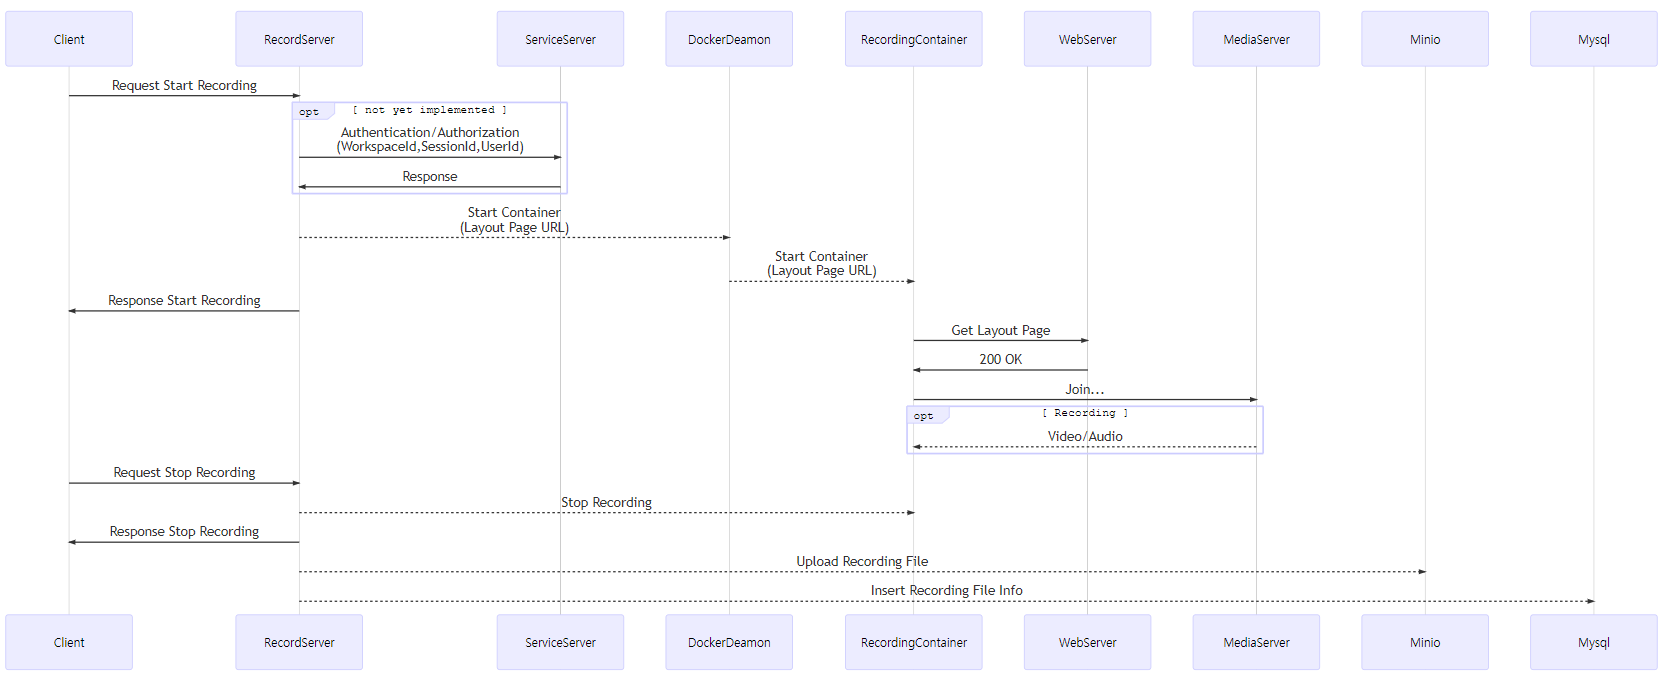
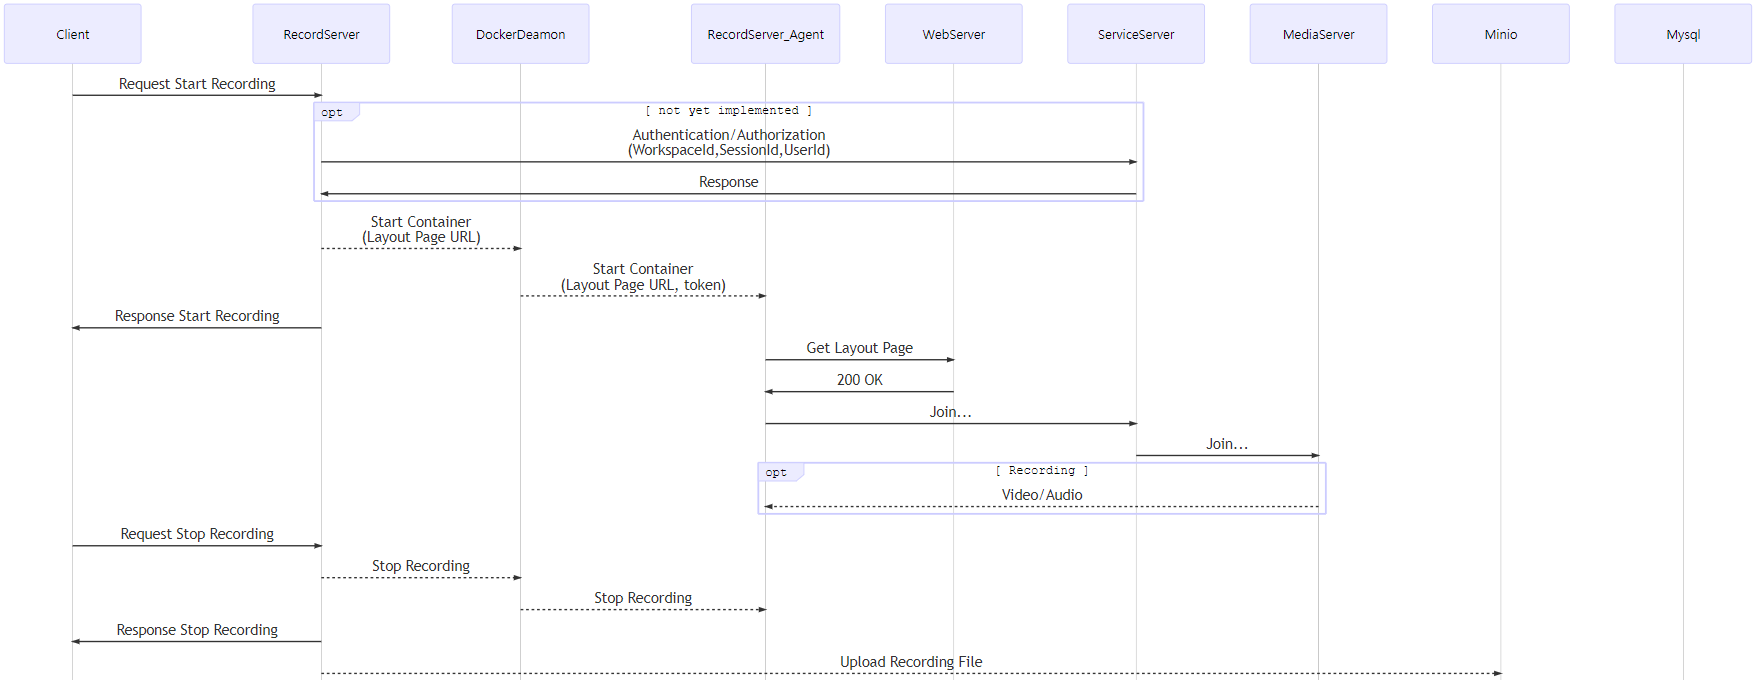
chore: update base flow image

diff --git a/sequence.md b/sequence.md
@@ -2,10 +2,10 @@
 sequenceDiagram
     participant Client
     participant RecordServer
-    participant ServiceServer
     participant DockerDeamon
-    participant RecordingContainer
+    participant RecordServer_Agent
     participant WebServer
+    participant ServiceServer
     participant MediaServer
     participant Minio
     participant Mysql
@@ -15,16 +15,18 @@ sequenceDiagram
         ServiceServer->>RecordServer: Response
     end
     RecordServer-->>DockerDeamon: Start Container<br>(Layout Page URL)
-    DockerDeamon-->>RecordingContainer: Start Container<br>(Layout Page URL)
+    DockerDeamon-->>RecordServer_Agent: Start Container<br>(Layout Page URL, token)
     RecordServer->>Client: Response Start Recording
-    RecordingContainer->>WebServer: Get Layout Page
-    WebServer->>RecordingContainer: 200 OK
-    RecordingContainer->>MediaServer: Join...
+    RecordServer_Agent->>WebServer: Get Layout Page
+    WebServer->>RecordServer_Agent: 200 OK
+    RecordServer_Agent->>ServiceServer: Join...
+    ServiceServer->>MediaServer: Join...
     opt Recording
-        MediaServer-->>RecordingContainer: Video/Audio
+        MediaServer-->>RecordServer_Agent: Video/Audio
     end
     Client->>RecordServer: Request Stop Recording
-    RecordServer-->>RecordingContainer: Stop Recording
+    RecordServer-->>DockerDeamon: Stop Recording
+    DockerDeamon-->>RecordServer_Agent: Stop Recording
     RecordServer->>Client: Response Stop Recording
     RecordServer-->>Minio: Upload Recording File
     RecordServer-->>Mysql: Insert Recording File Info
